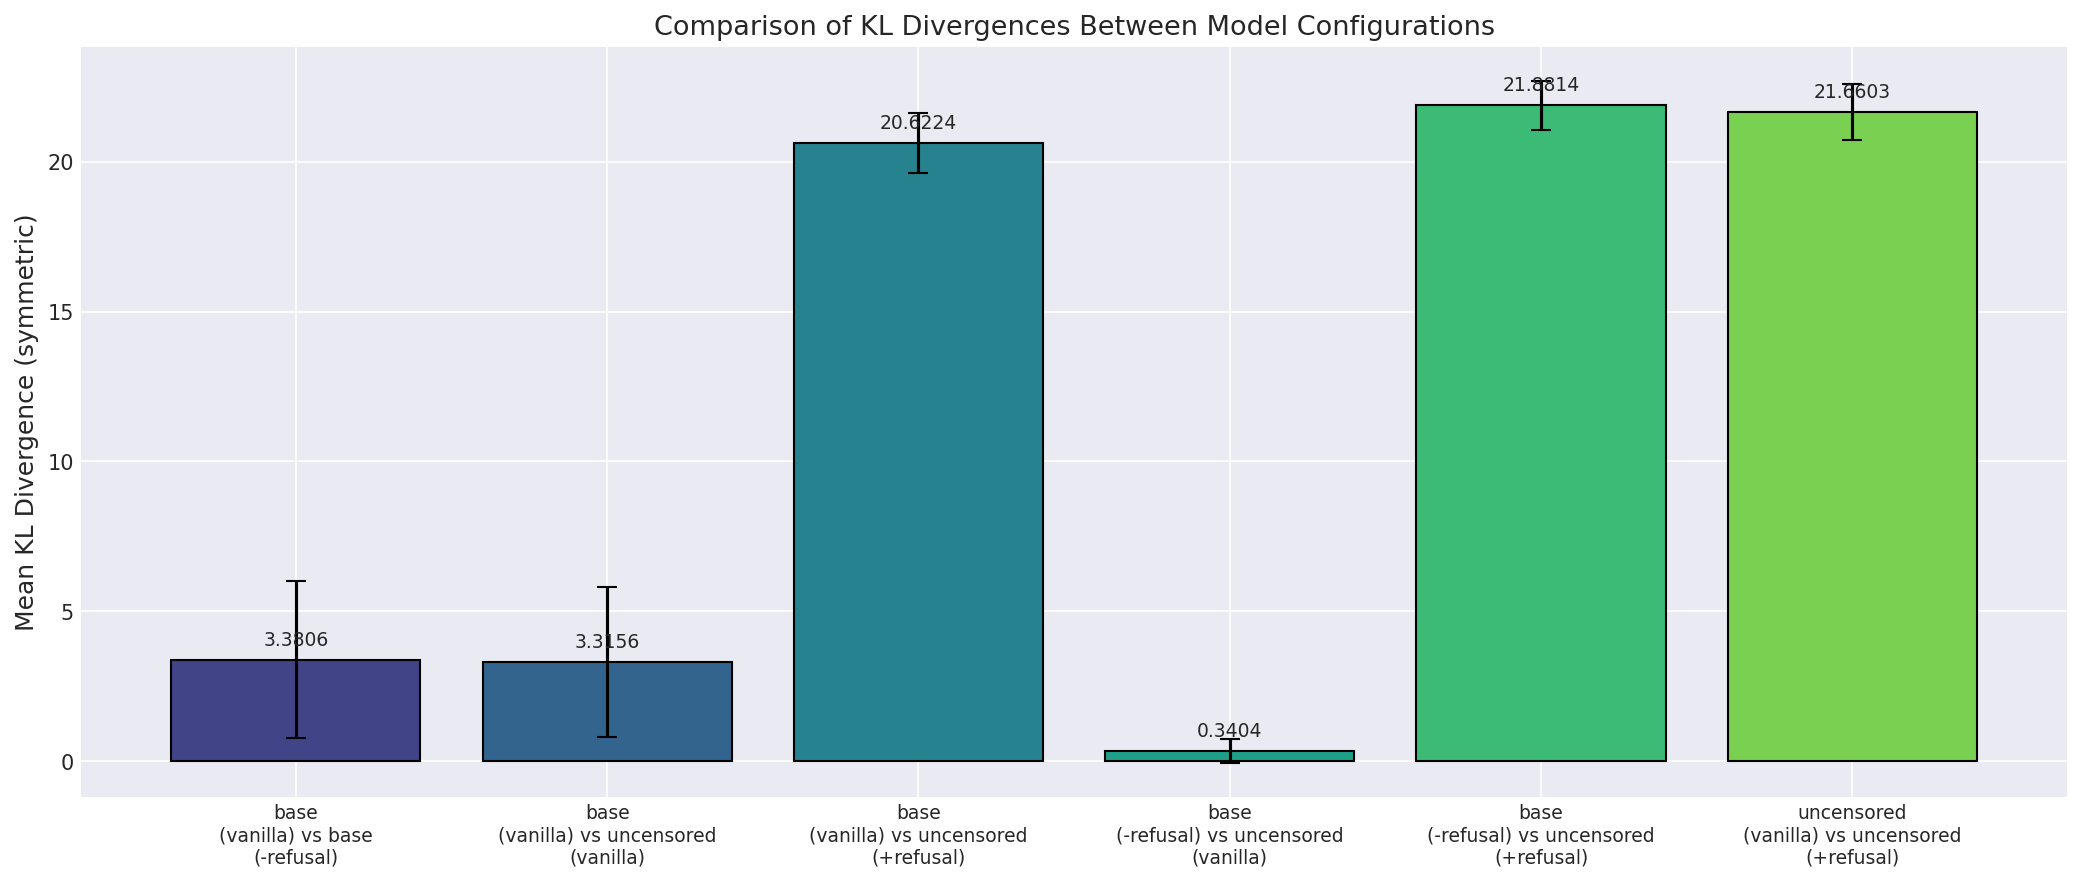
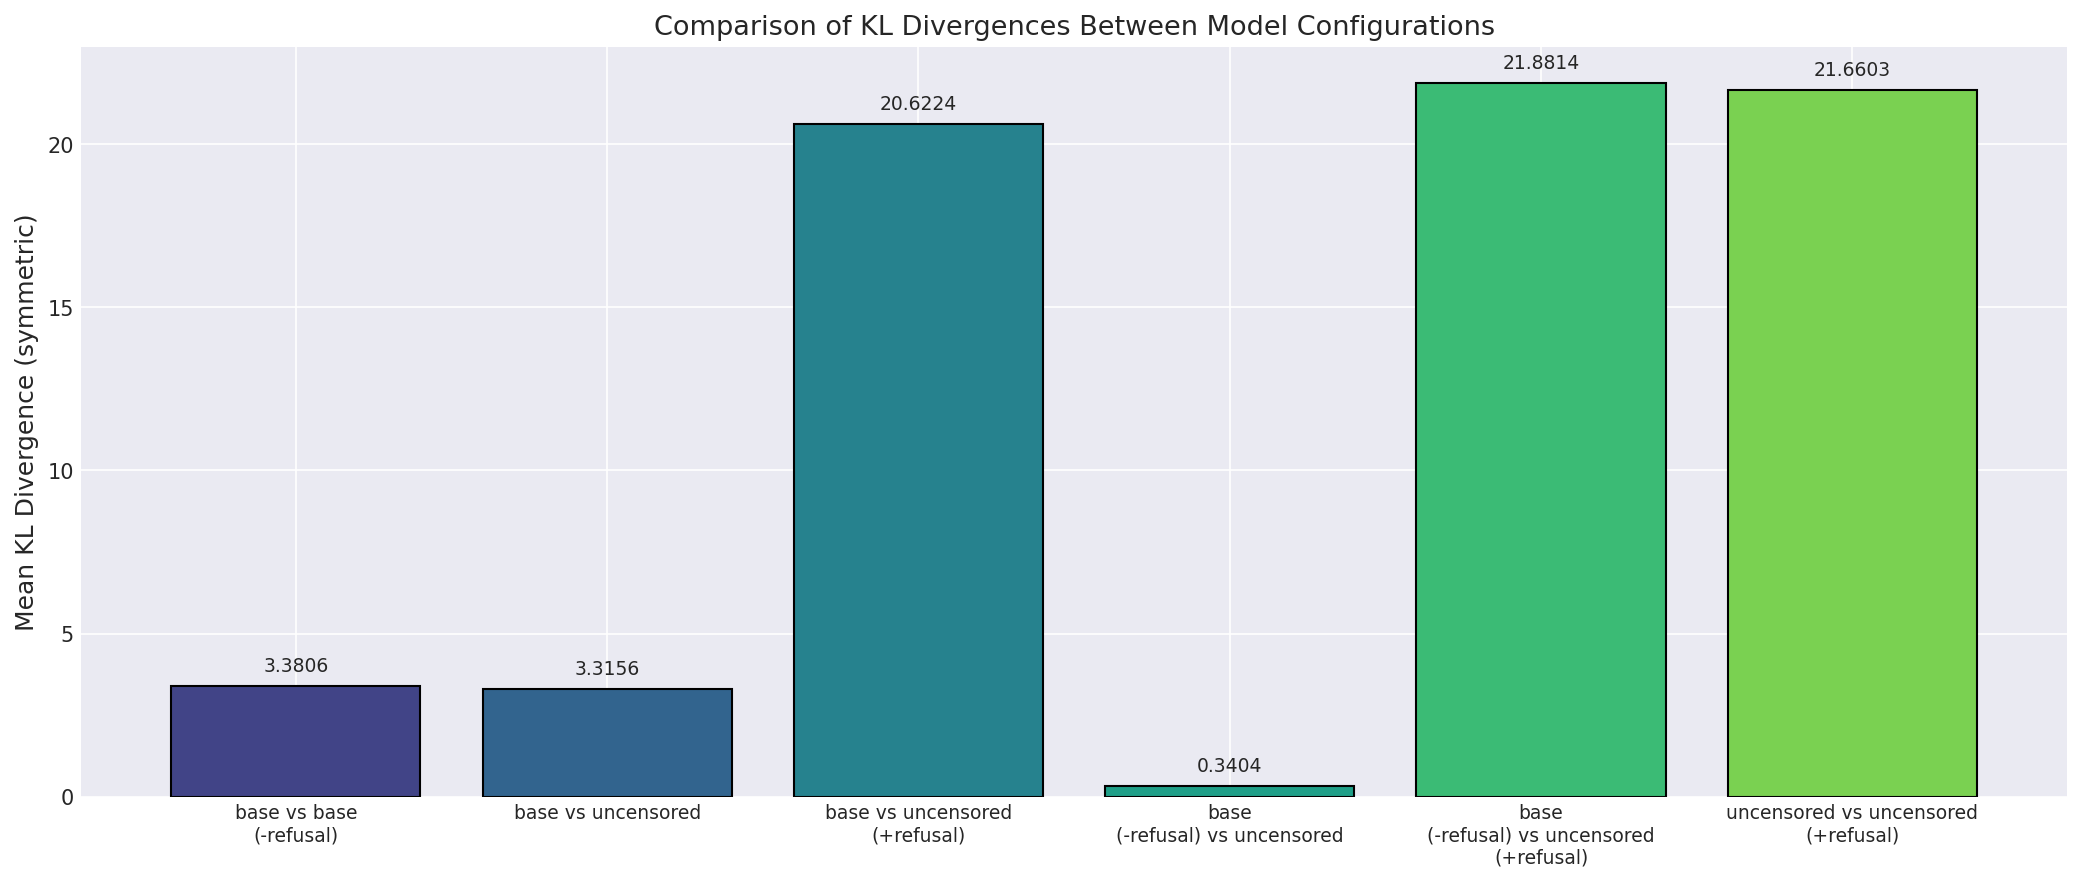
removed error bars, names

diff --git a/kl-div/compare_kl_div.py b/kl-div/compare_kl_div.py
@@ -128,17 +128,15 @@ def plot_kl_comparison_bar(pairwise_kl, output_dir):
     """Bar chart comparing mean KL divergences across all pairs."""
     pair_names = list(pairwise_kl.keys())
     means = [np.mean(v) for v in pairwise_kl.values()]
-    stds = [np.std(v) for v in pairwise_kl.values()]
     
     # Shorten names for display
-    short_names = [name.replace('_no_ablation', '\n(vanilla)').replace('_with_ablation', '\n(-refusal)').replace('_with_addition', '\n(+refusal)') 
+    short_names = [name.replace('_no_ablation', '').replace('_with_ablation', '\n(-refusal)').replace('_with_addition', '\n(+refusal)') 
                    for name in pair_names]
     
     fig, ax = plt.subplots(figsize=(14, 6))
     
     colors = plt.cm.viridis(np.linspace(0.2, 0.8, len(pair_names)))
-    bars = ax.bar(range(len(pair_names)), means, yerr=stds, capsize=5,
-                  color=colors, edgecolor='black')
+    bars = ax.bar(range(len(pair_names)), means, color=colors, edgecolor='black')
     
     ax.set_xticks(range(len(pair_names)))
     ax.set_xticklabels(short_names, fontsize=9, ha='center')
@@ -146,7 +144,7 @@ def plot_kl_comparison_bar(pairwise_kl, output_dir):
     ax.set_title('Comparison of KL Divergences Between Model Configurations', fontsize=13)
     
     # Add value labels on bars
-    for bar, mean, std in zip(bars, means, stds):
+    for bar, mean in zip(bars, means):
         ax.annotate(f'{mean:.4f}', 
                     xy=(bar.get_x() + bar.get_width() / 2, bar.get_height()),
                     xytext=(0, 5), textcoords='offset points',
